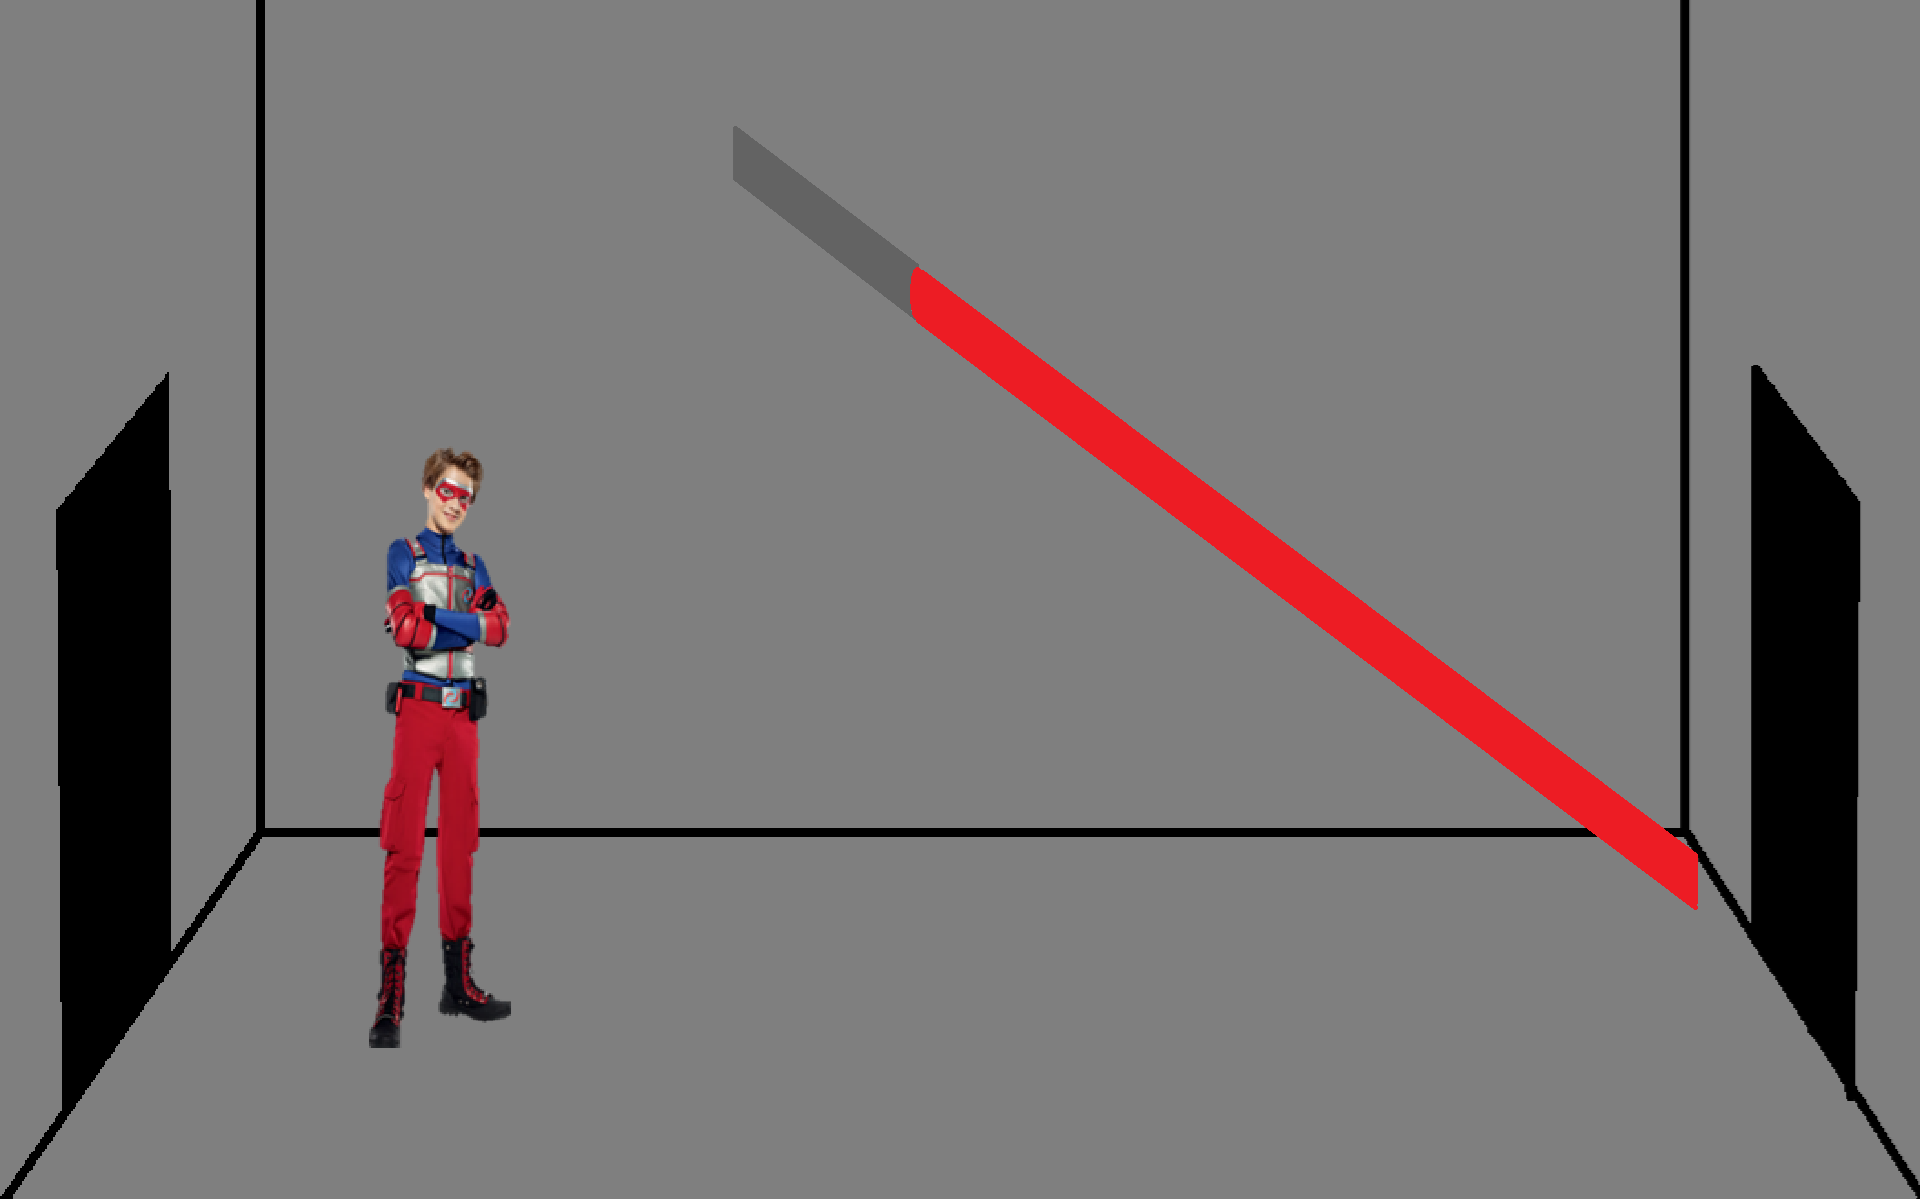
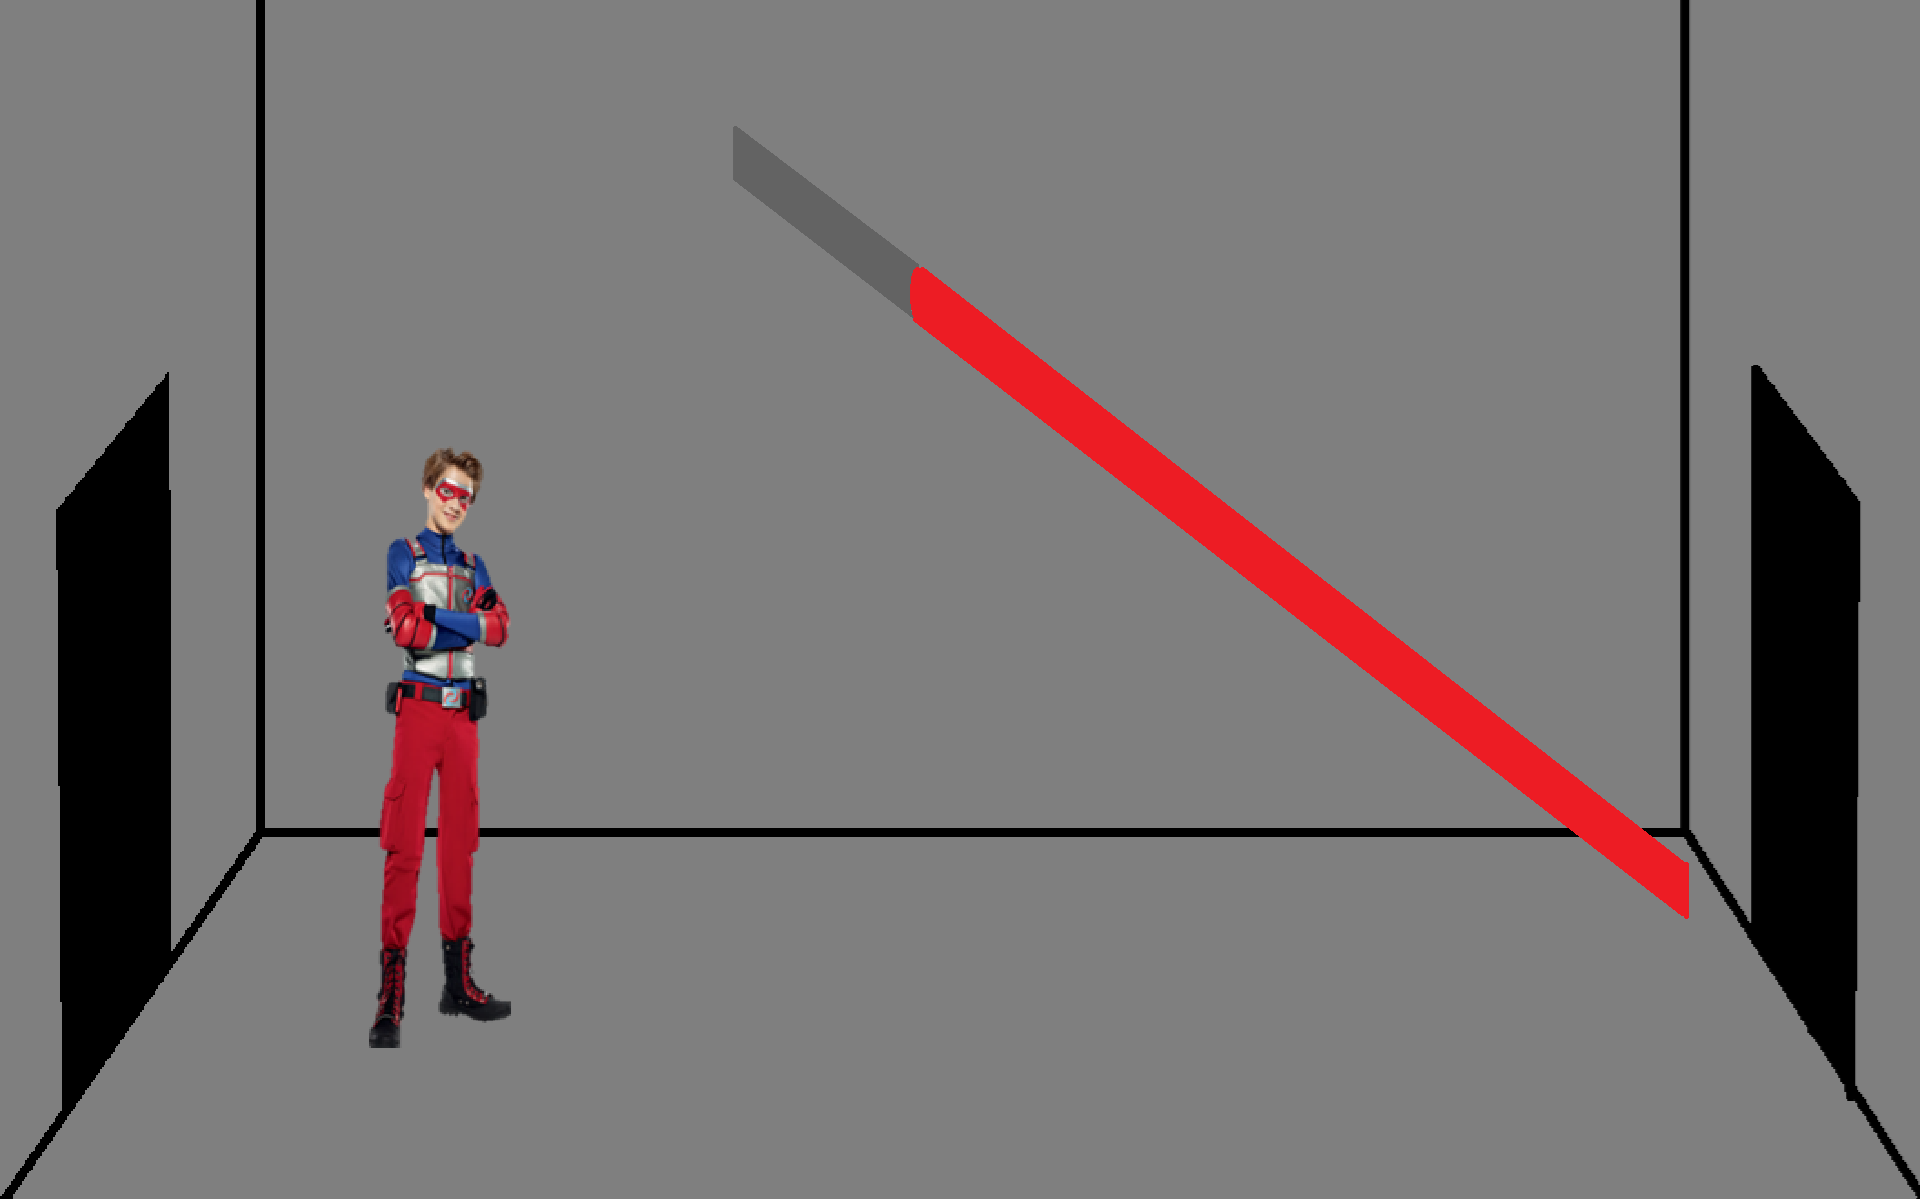
Now you can move the laser

Changed region(s): [[0.625, 0.4317, 0.9062, 0.7708], [0.625, 0.4008, 0.6562, 0.4317]]

diff --git a/Henry Danger saves Jasper remake/Form1.cs b/Henry Danger saves Jasper remake/Form1.cs
@@ -32,11 +32,17 @@ namespace Henry_Danger_saves_Jasper_remake
         ButonPictura RightArrow, LeftArrow, X, Green, RightArrow3;
         ButonPictura BackToGame, Lose1, Slenderman, Paper, Mess, CloseMessage, Entrance;
         ButonPictura RightArrow2, Box, Termite, Six, JeffTheKiller, LightSwitch, Lose2, Lose3, Lose4, JeffInventory, Lose5, SlendermanInventory;
-        ButonPictura DoorButton, TimeJerker, But, Lose6, Lose7, Lose8, Box2, DoorButton2, Lose9, Transparent, DreamBeam, But2, RightArrow4, Lose10;
+        ButonPictura DoorButton, TimeJerker, But, Lose6, Lose7, Lose8, Box2, DoorButton2, Lose9, Transparent, DreamBeam, But2, RightArrow4, Lose10, Timer;
+        ButonPictura Lose11, Lose12;
         int no_clicks_park_map = 0, combined_glue_with_watergun = 0, x_was_glued = 0, subway_defeated = 0, pressed_light_switch = 0;
         int jeff_blinded_with_flashlight = 0, jeff_attacked = 0;
         int message_read = 0;
-        int slendy = 0;      
+        int slendy = 0;
+
+        private void textBox1_TextChanged_1(object sender, EventArgs e)
+        {
+
+        }
 
         int entrance = 0;
         int no_clicks_rightarrow3 = 0, turned = 0, six_thrown_wrong = 0, six_thrown_right = 0, time_jerker_defeated = 0, box2taken = 0;
@@ -115,14 +121,17 @@ namespace Henry_Danger_saves_Jasper_remake
             Lose8 = new ButonPictura("Lose8.png", 0, 0, 800, 480, this);
             Lose9 = new ButonPictura("Lose9.png", 0, 0, 800, 480, this);
             Lose10 = new ButonPictura("Lose10.png", 0, 0, 800, 480, this);
+            Lose11 = new ButonPictura("Lose11.png", 0, 0, 800, 480, this);
             DoorButton = new ButonPictura("Slot.png", 10000, 10000, 44, 168, this, DoorButtonClick);
             DoorButton2 = new ButonPictura("Slot.png", 10000, 10000, 44, 168, this, DoorButton2Click);
             But = new ButonPictura("Button.png", 10000, 10000, 40, 40, this, ButClick);
             But2 = new ButonPictura("Button.png", 10000, 10000, 40, 40, this, But2Click);
             TimeJerker = new ButonPictura("TimeJerker.png", 10000, 10000, 100, 270, this, TimeJerkerClick);
             ButonPictura.variableDisappear(Mess, CloseMessage, Entrance, RightArrow2, JeffTheKiller, LightSwitch, Lose2, Lose3, Lose4, Lose5,
-                Lose6, Lose7, Lose8, Lose9, Lose10);
+                Lose6, Lose7, Lose8, Lose9, Lose10, Lose11);
             Transparent = new ButonPictura("Transparent.png", 10000, 10000, 500, 500, this, TransparentClick);
+            Timer = new ButonPictura("Time_00_03.png", 354, 0, 92, 30, this);
+            Timer.disappear();
         }
 
         private async void RightArrow4Click(object arg1, EventArgs args)
@@ -142,6 +151,9 @@ namespace Henry_Danger_saves_Jasper_remake
                 Hideout.setImage("RoomLaser.png");
                 But2.setCoordinates(But.getCoordinates().X, But.getCoordinates().Y);
                 But2.appear(true);
+                Transparent.setCoordinates(300, 30);
+                Transparent.setWidth(100);
+                Transparent.setHeight(100);
                 return;
             }
             But.disappear();
@@ -166,8 +178,19 @@ namespace Henry_Danger_saves_Jasper_remake
             return;
         }
 
-        private void But2Click(object arg1, EventArgs args)
+        private async void But2Click(object arg1, EventArgs args)
         {
+            if(But2.isFrozen())
+            {
+                return;
+            }
+            Hideout.setImage("RoomLaser2.png");
+            ButonPictura.variableFreeze(Guitar, Watergun, Flashlight, DreamBeam, Map, But2, RightArrow4);
+            NameOfObject.Visible = false;
+            Green.disappear();
+            await Task.Delay(1000);
+            ButonPictura.variableReactivate(Guitar, Watergun, Flashlight, DreamBeam, Map, But2, RightArrow4);
+            Hideout.setImage("RoomLaser.png");
             return;
         }
 
@@ -193,6 +216,10 @@ namespace Henry_Danger_saves_Jasper_remake
 
         private async void TransparentClick(object arg1, EventArgs args)
         {
+            if(Transparent.isFrozen())
+            {
+                return;
+            }
             if(minyak_state == 0)
             {
                 if (Green.getP().Location.X + 7 == Ladder.getP().Location.X && Green.getP().Visible == true
@@ -204,7 +231,8 @@ namespace Henry_Danger_saves_Jasper_remake
                     Hideout.setImage("DrMinyak5.png");
                     minyak_state = 1;
                     return;
-                }              
+                }
+                return;
             }
             if (minyak_state == 1)
             {
@@ -220,6 +248,7 @@ namespace Henry_Danger_saves_Jasper_remake
                     Transparent.increaseWidth(200);
                     return;
                 }
+                return;
             }
             if (minyak_state == 2)
             {
@@ -255,9 +284,47 @@ namespace Henry_Danger_saves_Jasper_remake
                     ButonPictura.variableReactivate(Guitar, Flashlight, Watergun, Map);
                     RightArrow4.setCoordinates(675, 370);
                     RightArrow4.appear(true);
+                    Lose9.disappear();
+                    Lose8.disappear();
                     return;
                 }
+                return;
             }
+
+            if (Green.getP().Location.X + 7 == Guitar.getP().Location.X && Green.getP().Visible == true
+                && Green.getP().Location.Y + 7 == Guitar.getP().Location.Y)
+            {
+                ButonPictura.variableFreeze(Guitar, Watergun, Flashlight, DreamBeam, Map, But2, RightArrow4, Transparent);
+                NameOfObject.Visible = false;
+                Green.disappear();
+                But2.disappear();
+                RightArrow4.disappear();
+                Hideout.setImage("RoomLaser3.png");
+                await Task.Delay(1000);
+                Hideout.setImage("RoomLaser4.png");
+                Timer.appear(true);
+                Timer.setImage("Time_00_03.png");
+                await Task.Delay(1000);
+                Timer.setImage("Time_00_02.png");
+                await Task.Delay(1000);
+                Timer.setImage("Time_00_01.png");
+                await Task.Delay(1000);
+                Timer.disappear();
+                Hideout.setImage("Drex.png");
+                speak("My smartwatch tells me someone moved the laser in the other room, let's give them a lesson...", 455, 160, 100, 80);
+                await Task.Delay(3000);
+                Hideout.setImage("RoomLaser4.png");
+                speak("I feel a funny smell...", 245, 160, 100, 20);
+                await Task.Delay(2000);
+                Tex.Visible = false;
+                Hideout.setImage("RoomLaser5.png");
+                await Task.Delay(1500);
+                BackToGame.setCoordinates(300, 350);
+                ButonPictura.variableAppear(true, Lose11, BackToGame);
+                Lose10.disappear();
+                return;
+            }
+            
         }
 
         private async void DoorButton2Click(object arg1, EventArgs args)
@@ -908,6 +975,16 @@ namespace Henry_Danger_saves_Jasper_remake
                 Hideout.setImage("RoomLaser.png");
                 ButonPictura.variableDisappear(Lose10, BackToGame);
                 return;
+            }
+
+            if(Lose11.isVisible())
+            {
+                ButonPictura.variableReactivate(Guitar, Watergun, Flashlight, DreamBeam, Map, But2, RightArrow4, Transparent);
+                But2.appear(true);
+                RightArrow4.appear(true);
+                Hideout.setImage("RoomLaser.png");                                      
+                ButonPictura.variableDisappear(Lose11, BackToGame);
+                return;                
             }
         }
 

diff --git a/Henry Danger saves Jasper remake/ButonPictura.cs b/Henry Danger saves Jasper remake/ButonPictura.cs
@@ -121,6 +121,16 @@ namespace Henry_Danger_saves_Jasper_remake
             p.Height += x;
         }
 
+        public void setWidth(int x)
+        {
+            p.Width = x;
+        }
+
+        public void setHeight(int x)
+        {
+            p.Height = x;
+        }
+
         public void freeze()
         {
             frozen = true;
